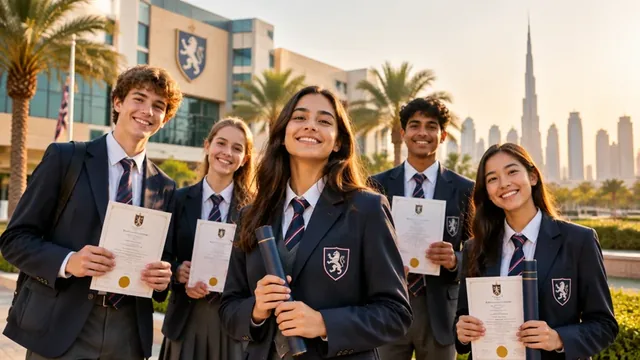
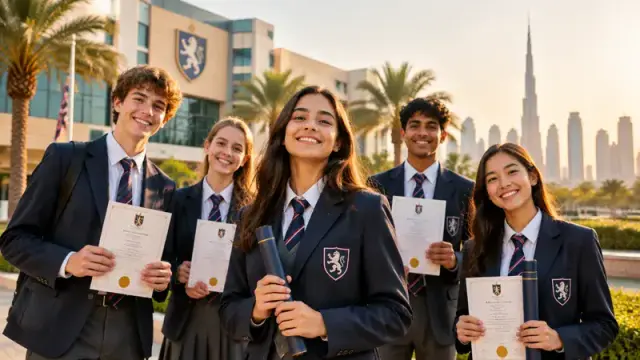
Recompress 4 large blog thumbnails, add missing 640w srcset variant
- Re-encode 4 oversized thumbnails at WebP q75 (saves ~52 KiB total):
  dubai-ingiliz-okullari-a-level: 59K→44K
  dubai-ib-okullari-mezun-basarisi: 57K→44K
  dubai-okul-seciminde-5-hata: 45K→38K
  dubai-amerikan-mufredat-ap-okullari: 39K→28K
- Regenerate 640w srcset variants for 3 of these from recompressed source
- Create new 640w variant for ap-okullari (previously missing)
- Add 640w to srcset in TR and EN blog listing for ap-okullari

diff --git a/httpdocs/en/blog/index.html b/httpdocs/en/blog/index.html
@@ -1427,7 +1427,7 @@
         </a>
         <a href="/en/blog/best-ap-schools-dubai/" data-tags="dubai ap" class="blog-card glass scroll-reveal">
           <div class="blog-card-thumb">
-            <img src="/assets/blog/thumb-dubai-amerikan-mufredat-ap-okullari.webp" srcset="/assets/blog/thumb-dubai-amerikan-mufredat-ap-okullari.webp 800w" alt="Best AP schools Dubai top 10 American curriculum" loading="lazy" decoding="async" sizes="(max-width: 640px) calc(100vw - 2rem), (max-width: 1024px) calc(50vw - 3rem), 400px" width="800" height="450">
+            <img src="/assets/blog/thumb-dubai-amerikan-mufredat-ap-okullari.webp" srcset="/assets/blog/thumb-dubai-amerikan-mufredat-ap-okullari-640.webp 640w, /assets/blog/thumb-dubai-amerikan-mufredat-ap-okullari.webp 800w" alt="Best AP schools Dubai top 10 American curriculum" loading="lazy" decoding="async" sizes="(max-width: 640px) calc(100vw - 2rem), (max-width: 1024px) calc(50vw - 3rem), 400px" width="800" height="450">
             <span class="blog-card-flag">🎓</span>
           </div>
           <div class="blog-card-body">

diff --git a/httpdocs/blog/index.html b/httpdocs/blog/index.html
@@ -1324,7 +1324,7 @@
         </a>
         <a href="dubai-amerikan-mufredat-ap-okullari/" data-tags="dubai ap" class="blog-card glass">
           <div class="blog-card-thumb">
-            <img src="../assets/blog/thumb-dubai-amerikan-mufredat-ap-okullari.webp" srcset="../assets/blog/thumb-dubai-amerikan-mufredat-ap-okullari.webp 800w" alt="Dubai AP okulları top 10 Amerikan müfredatı" loading="lazy" decoding="async" sizes="(max-width: 640px) calc(100vw - 2rem), (max-width: 1024px) calc(50vw - 3rem), 400px" width="800" height="450">
+            <img src="../assets/blog/thumb-dubai-amerikan-mufredat-ap-okullari.webp" srcset="../assets/blog/thumb-dubai-amerikan-mufredat-ap-okullari-640.webp 640w, ../assets/blog/thumb-dubai-amerikan-mufredat-ap-okullari.webp 800w" alt="Dubai AP okulları top 10 Amerikan müfredatı" loading="lazy" decoding="async" sizes="(max-width: 640px) calc(100vw - 2rem), (max-width: 1024px) calc(50vw - 3rem), 400px" width="800" height="450">
             <span class="blog-card-flag">🎓</span>
           </div>
           <div class="blog-card-body">
